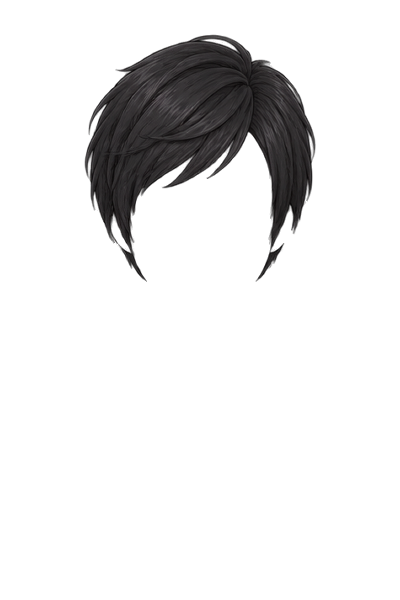
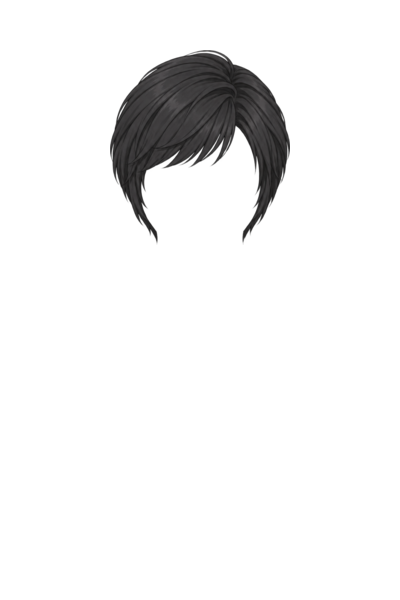
v0.70: [초상] 여성 단발·옆가르마 두상과 웹툰 표현 교정
헤어 12·23 원화를 다시 그려 정수리와 옆머리 부피, 과도한 광택 및 앞머리 가림을 줄인다. 새 원화로 뒷머리도 맞추고 이미지 캐시를 갱신한다. 얼굴·체형·피부색 90개 합성, 초상화 관련 연기 시험 17개 및 빌드 통과.

Changed region(s): [[0.21, 0.06, 0.81, 0.48], [0.63, 0.45, 0.66, 0.48], [0.33, 0.18, 0.36, 0.21]]

diff --git a/js/portrait_parts.js b/js/portrait_parts.js
@@ -1785,11 +1785,19 @@ const PortraitParts = (() => {
     {
       "file": "hair-f-12.webp",
       "rect": [
-        80,
-        24,
-        240,
-        246
-      ]
+        0,
+        0,
+        400,
+        600
+      ],
+      "rearFile": "hair-f-12.webp",
+      "rearRect": [
+        0,
+        0,
+        400,
+        600
+      ],
+      "rearEndY": 270
     },
     {
       "file": "hair-f-13.webp",
@@ -1913,7 +1921,7 @@ const PortraitParts = (() => {
         400,
         600
       ],
-      "rearFile": "hair-f-23-rear.webp",
+      "rearFile": "hair-f-23.webp",
       "rearRect": [
         0,
         0,
@@ -2980,7 +2988,7 @@ const PortraitParts = (() => {
     const fitHead = markup => headScale === 1 ? markup : `<g data-proportion="head" transform="${headTransform}">${markup}</g>`;
     const cardHeight = underwear ? 440 : 480;
     const view = avatar ? `72 ${pose} 256 256` : `0 0 400 ${cardHeight}`;
-    const source = part => root + part.file + '?v=9';
+    const source = part => root + part.file + '?v=10';
     const image = (part, attrs = '') => {
       const [x,y,w,h] = part.rect, src = source(part);
       return `<image href="${src}" xlink:href="${src}" x="${x}" y="${y}" width="${w}" height="${h}"${part.opacity == null ? '' : ` opacity="${part.opacity}"`}${attrs}/>`;

diff --git a/index.html b/index.html
@@ -8,7 +8,7 @@
   <meta name="theme-color" content="#05080d">
   <link rel="preconnect" href="https://fonts.googleapis.com">
   <link rel="stylesheet" href="https://fonts.googleapis.com/css2?family=Black+Han+Sans&family=Chakra+Petch:wght@500;600;700&family=IBM+Plex+Sans+KR:wght@400;500;700&display=swap">
-  <link rel="stylesheet" href="dist/style.css?v=s2.0.69">
+  <link rel="stylesheet" href="dist/style.css?v=s2.0.70">
 </head>
 <body>
   <div id="app"></div>
@@ -26,6 +26,6 @@
       document.body.appendChild(d);
     });
   </script>
-  <script src="dist/game.js?v=s2.0.69"></script>
+  <script src="dist/game.js?v=s2.0.70"></script>
 </body>
 </html>

diff --git a/js/data.js b/js/data.js
@@ -1,5 +1,5 @@
 // 게임 버전 (화면 오른쪽 아래에 표시)
-const GAME_VERSION = '0.69';
+const GAME_VERSION = '0.70';
 
 // ===== 게이트 크로니클: 데이터 정의 =====
 // 귀곡팔황의 "경지"를 각성 등급으로, "오행"을 에테르 속성으로 옮겼다.
